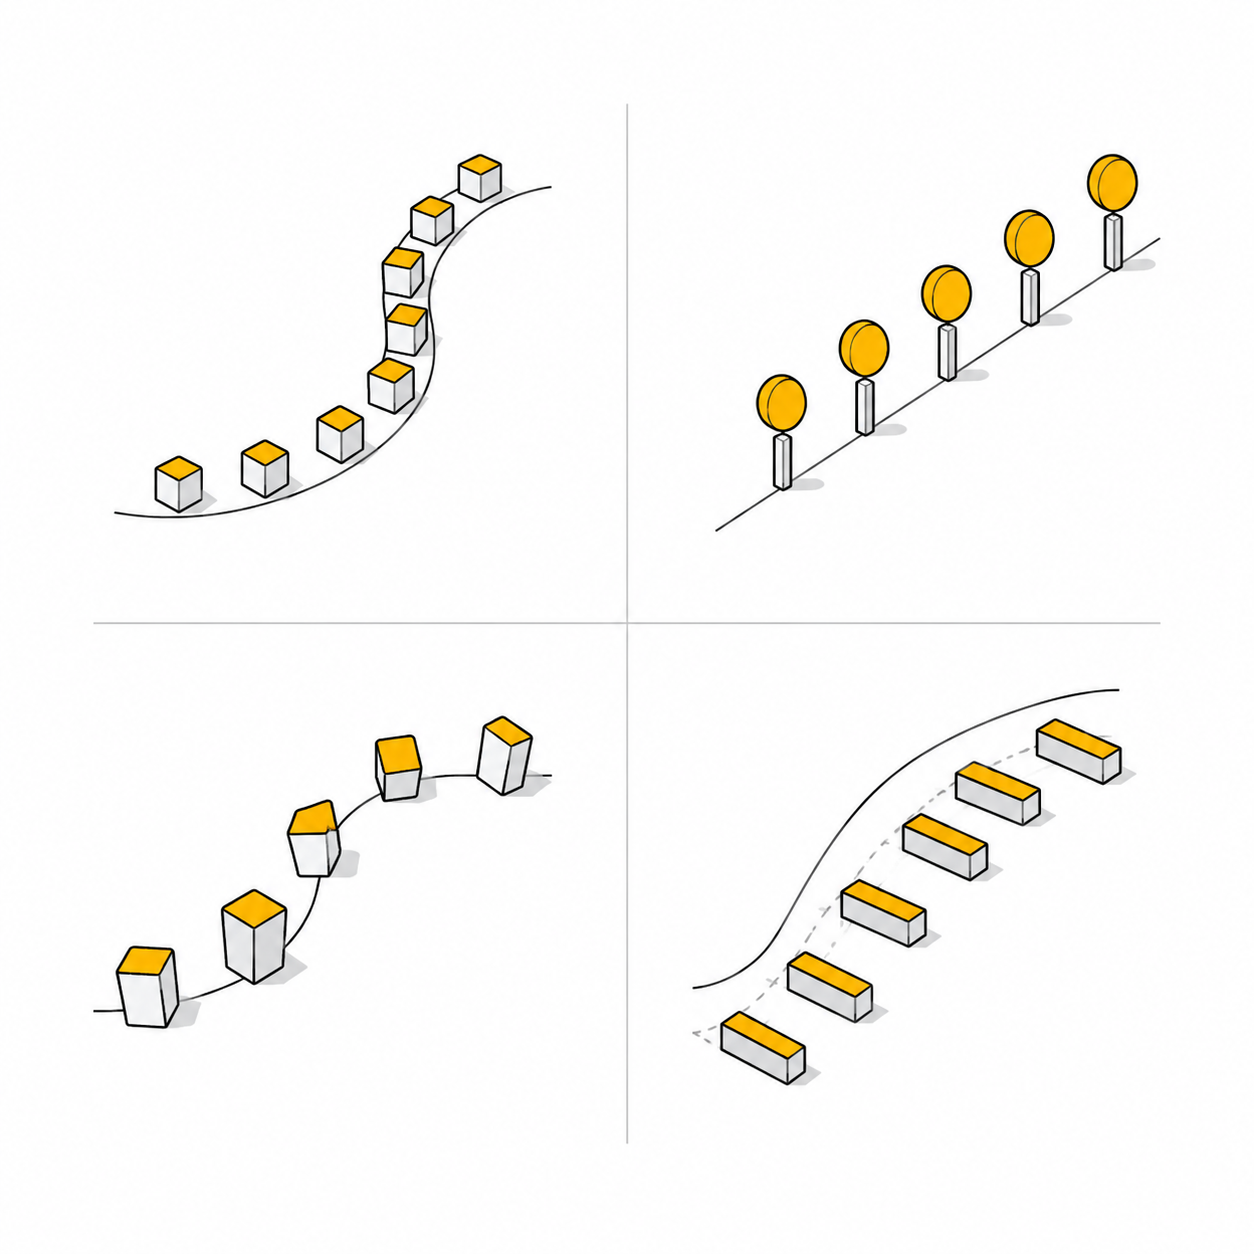
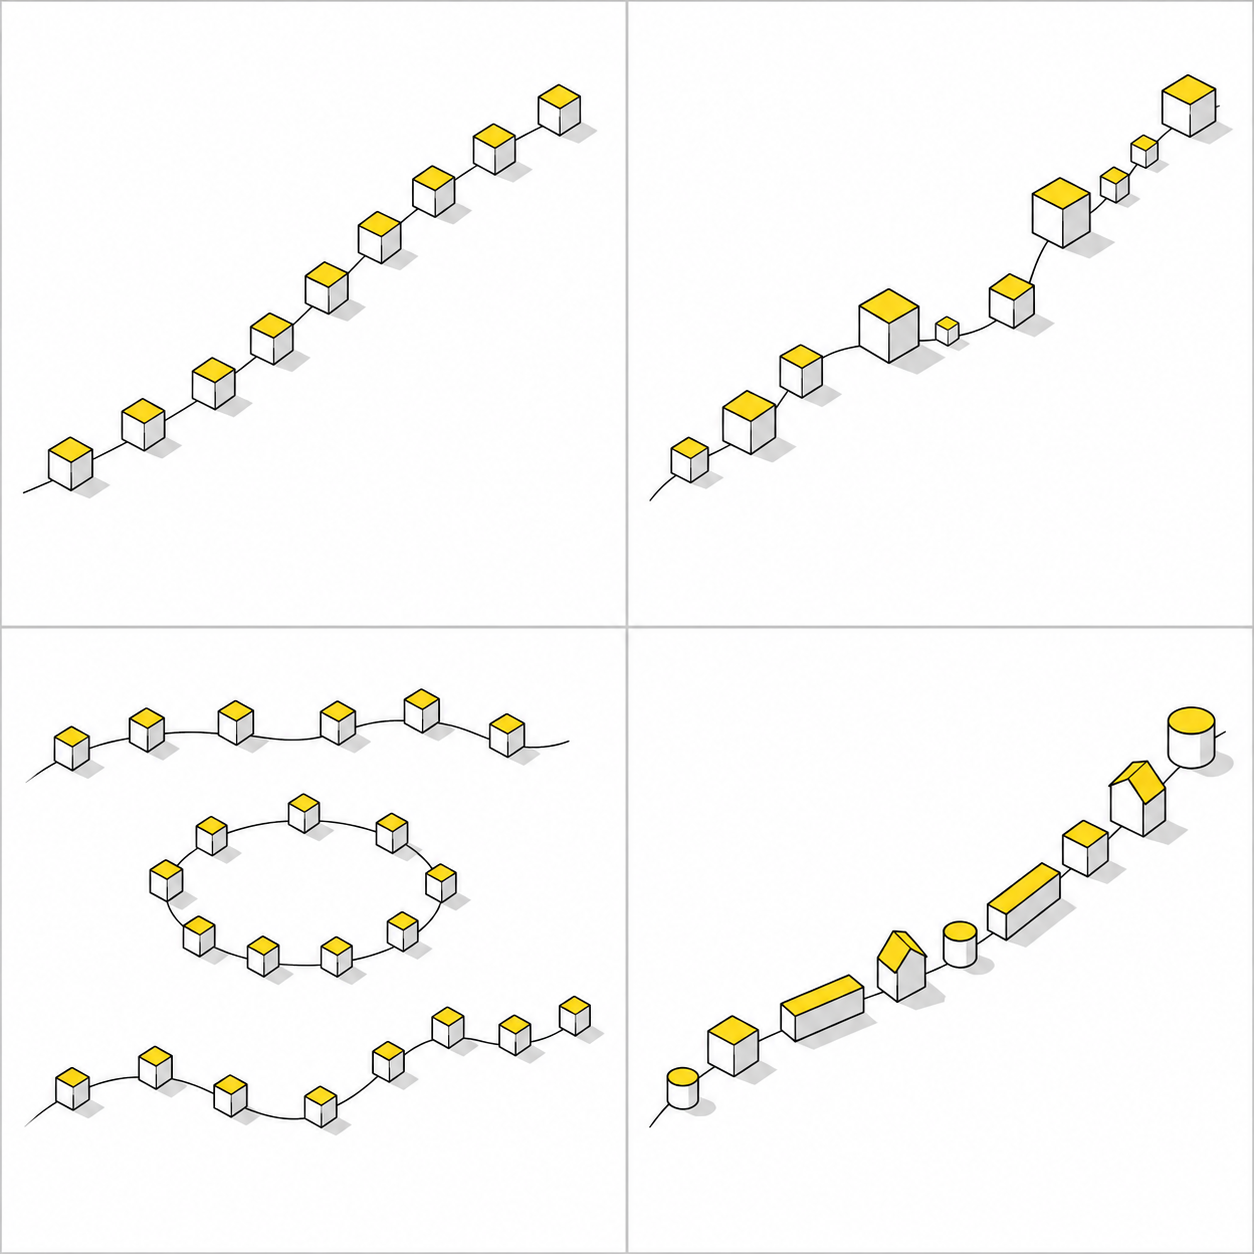
4

diff --git a/index.html b/index.html
@@ -242,7 +242,7 @@
         <p class="muted">Mỗi plugin nên có một trang riêng trong Google Sites để người dùng dễ tải, xem video và đọc hướng dẫn.</p>
         <div class="grid">
           <div class="card">
-            <img class="plugin-preview" src="images/path-tools-preview2.png" alt="Sun2T Path Tools Preview">
+            <img class="plugin-preview" src="images/path-tools-preview.png" alt="Sun2T Path Tools Preview">
             <h3>Sun2T Path Tools</h3>
             <p>Rải đối tượng theo đường dẫn, hỗ trợ random spacing, random rotate, random scale và offset path.</p>
             <p><strong>Phiên bản:</strong> V0.6.3</p>